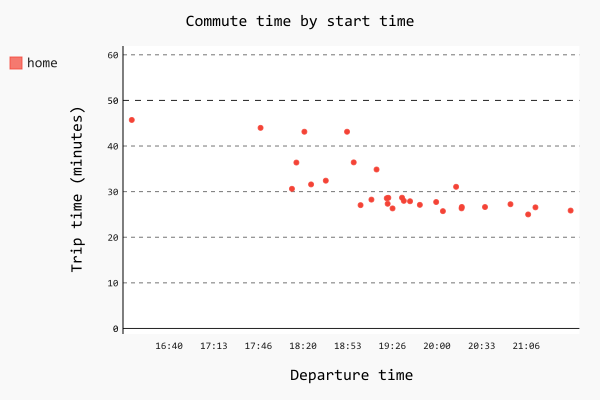
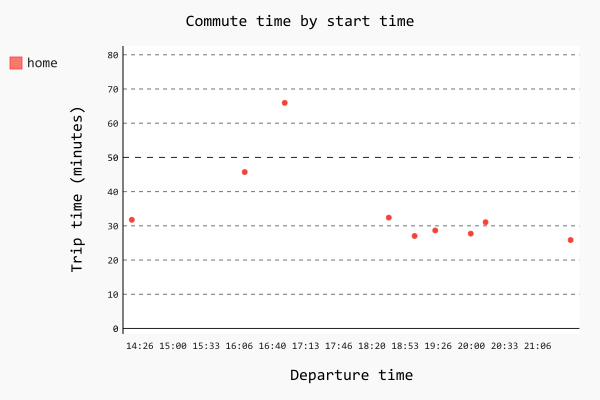
Corrected readme, regenerated charts

diff --git a/plot.py b/plot.py
@@ -5,7 +5,7 @@ import pygal
 
 
 def plot_duration(df, filename):
-    chart = pygal.Box(title='Commute duration', y_title='Minutes', show_legend=False)
+    chart = pygal.Box(title='Commute duration', y_title='Minutes', show_legend=False, width=600, height=400)
     chart.x_labels = ['Home to work', 'Work to home']
     chart.add('Home to work', df['duration_s'][df['label'] == 'work'].values / 60)
     chart.add('Work to home', df['duration_s'][df['label'] == 'home'].values / 60)
@@ -36,7 +36,7 @@ def plot_duration_by_day_of_week(df, label, filename):
 
         durations_by_day_of_week[day_of_week].append(t[1] / 60)
 
-    chart = pygal.Box(title='Commute to %s duration, by day of week' % (label), y_title='min', show_legend=False)
+    chart = pygal.Box(title='Commute to %s duration, by day of week' % (label), y_title='min', show_legend=False, width=600, height=400)
     l = arrow.locales.EnglishLocale()
     chart.x_labels = map(lambda d: l.day_name(d + 1), durations_by_day_of_week.keys())
     for (day_of_week, durations) in durations_by_day_of_week.iteritems():

diff --git a/README.md b/README.md
@@ -1,6 +1,19 @@
 This repo holds collection of Python scripts to analyze trip information extracted from [Automatic](https://developer.automatic.com/api-reference/#rest-api).
 
-## Get trip data from Automatic
+## Sample charts 
+
+### Commute duration
+![](sample_charts/commute.png)
+
+### Commute to work duration by departure time
+![](sample_charts/commute_to_work_by_start.png)
+
+### Commute to work duration by day of week
+![](sample_charts/commute_to_work_by_day.png)
+
+## How to use it
+
+### Get trip data from Automatic
 
 To extract data from Automatic using their REST API you would need to obtain access token first. Follow [the isntructions](https://developer.automatic.com/my-apps/) on Automatic website.
 
@@ -9,21 +22,19 @@ Once you have token, you can fetch the list of your trips from Automatic:
     AUTOMATIC_ACCESS_TOKEN=<your token here>
     curl "https://api.automatic.com/trip/?limit=250" -H "Authorization:Bearer $AUTOMATIC_ACCESS_TOKEN" | jq '.results' > trips.json
 
-## Install Python packages
+### Install Python packages
 
     mkvirtualenv automatic
     workon automatic
     pip install -q -r requirements.txt
     
-## Convert trip data to CVS format
+### Convert trip data to CVS format
 
 I was too lazy to ingest and parse trip data in json format, so you would need to convert it to CSV first:
 
-
     python json-to-csv.py > out.csv
     
-    
-## Create charts
+### Create charts
 
     python plot.py
 
